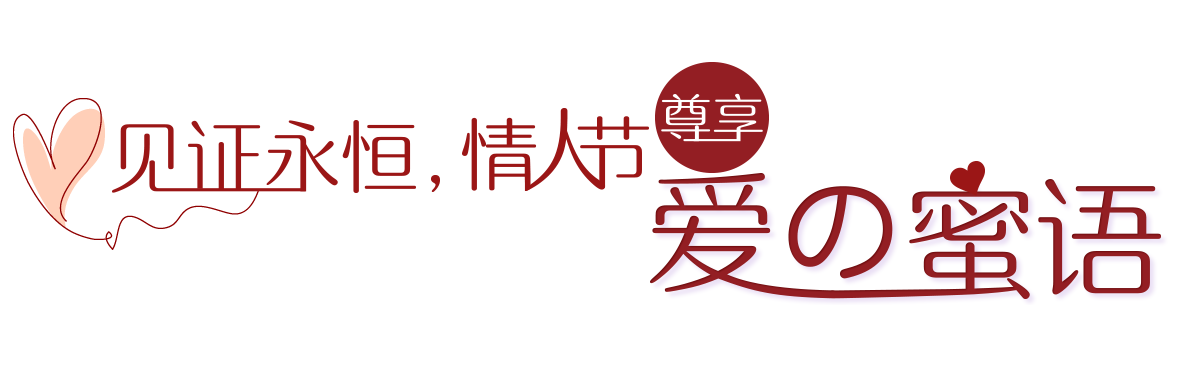
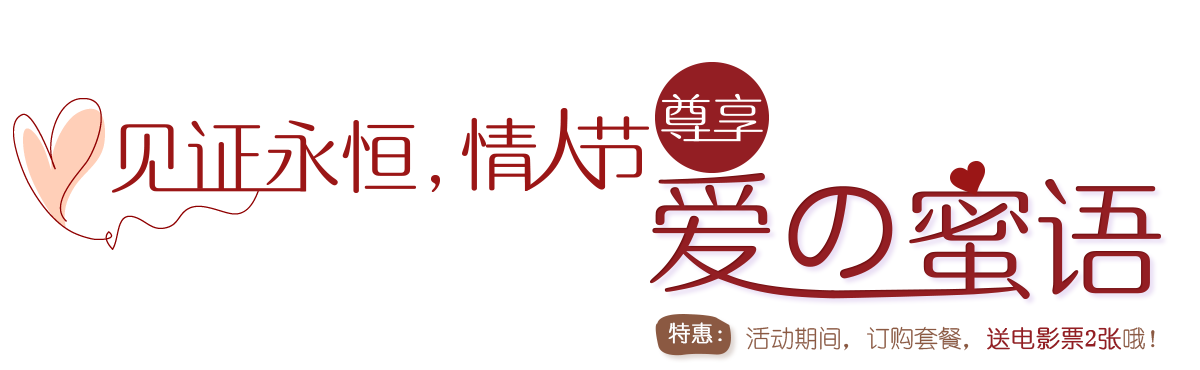
修改活动标题优惠信息和活动规则

Changed region(s): [[0.5242, 0.8324, 0.9558, 0.9811]]

diff --git a/valentines-sh.html b/valentines-sh.html
@@ -282,11 +282,11 @@
                         <div class="title"></div>
                         <ul>
                             <li>1.本套餐为限量款，数量有限，售完为止；</li>
-                            <li>2.活动时间：2月1日至2月22日；</li>
-                            <li>3.配送时间：2月8日至2月25日；</li>
+                            <li>2.活动时间：2月3日至2月22日；</li>
+                            <li>3.配送时间：2月8日至2月28日；</li>
                             <li>4.本活动不参加INCAKE积分累计奖励，不与其他代金卡（券）、优惠卡（券）及其他优惠活动同时使用；</li>
-                            <li>5.凡在2月4日前订购永恒の蜜语或醉人の蜜语套餐，即可在特价基础上享受9折优惠;</li>
-                            <li>6.活动仅限上海苏州昆山地区。</li>
+                            <li>5.活动期间凡订购爱の蜜语系列套餐均可获得蜘蛛网抵用券两张，每单限两张，先到先得，送完为止；</li>
+                            <li>6.活动仅限上海、苏州、昆山地区。</li>
                         </ul>
                     </div>
                 </div>

diff --git a/valentines-fz.html b/valentines-fz.html
@@ -282,10 +282,11 @@
                         <div class="title"></div>
                         <ul>
                             <li>1.本套餐为限量款，数量有限，售完为止；</li>
-                            <li>2.活动时间：2月1日至2月22日；</li>
-                            <li>3.配送时间：2月8日至2月25日；</li>
+                            <li>2.活动时间：2月3日至2月25日；</li>
+                            <li>3.配送时间：2月8日至2月28日；</li>
                             <li>4.本活动不参加INCAKE积分累计奖励，不与其他代金卡（券）、优惠卡（券）及其他优惠活动同时使用；</li>
-                            <li>5.活动仅限福州、厦门地区。</li>
+                            <li>5.活动期间凡订购爱の蜜语系列套餐均可获得蜘蛛网抵用券两张，每单限两张，先到先得，送完为止；</li>
+                            <li>6.活动仅限福州、厦门地区。</li>
                         </ul>
                     </div>
                 </div>
